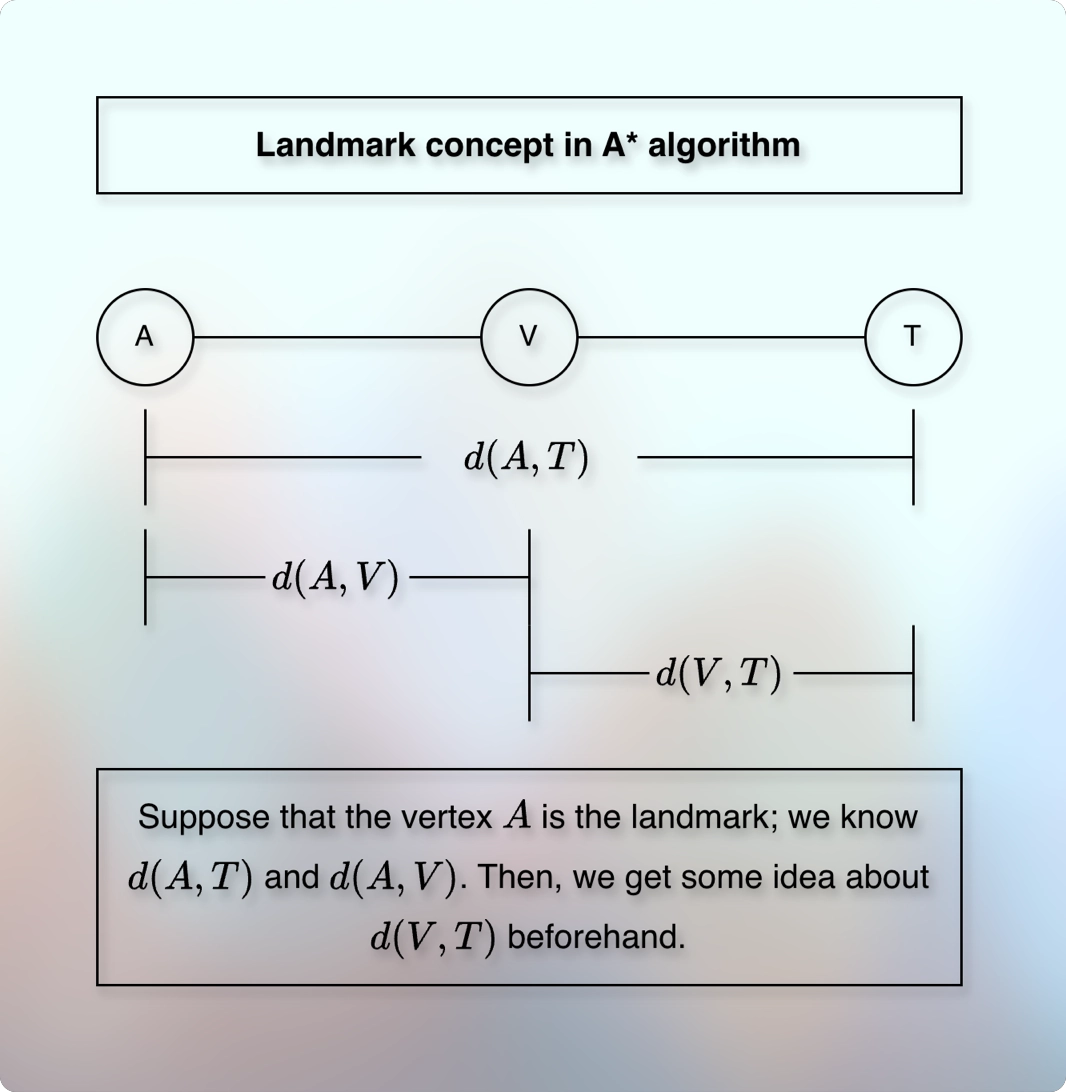
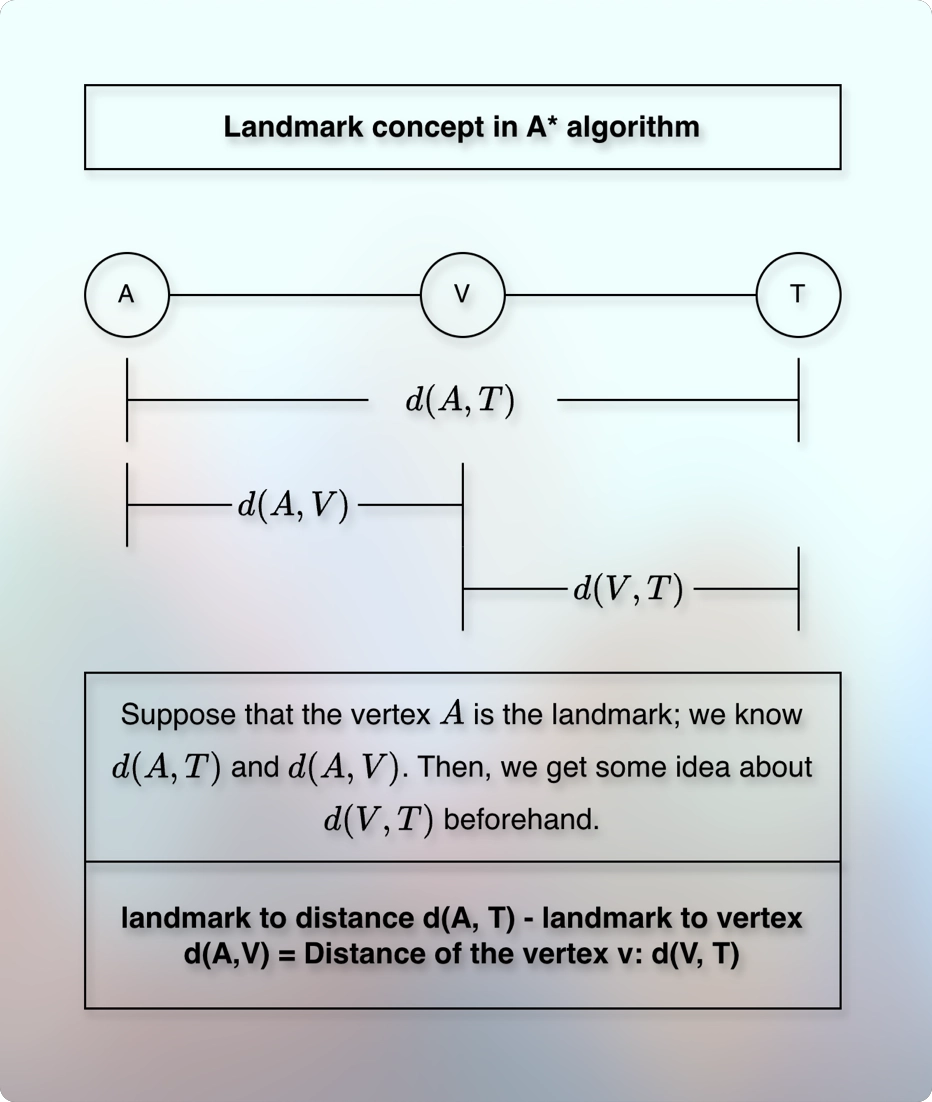
rev-doc(WIP): Continue expanding the concept of "Landmarks" in the | 020aStarAlgorithm.md
Took 30 minutes

diff --git a/docs/03graph/courses/uc/module06advancedShortestPathProject/010lectures/020aStarAlgorithm.md b/docs/03graph/courses/uc/module06advancedShortestPathProject/010lectures/020aStarAlgorithm.md
@@ -883,6 +883,11 @@ $$
 d(S, T) - d(S, a) &le; d(a, T)
 $$
 
+* This is an interesting insight.
+* It says:
+
+> Landmark distance d(S, T) - distance from the vertex `a` to landmark = Distance of the vertex, `a`. 
+
 $$
 d(a, T) &ge; d(S, T) - d(S, a)
 $$
@@ -1081,7 +1086,52 @@ $$
 
 ---
 
-* Reversed Landmarks 
+* Landmark position 
+
+![120landmarks03.webp](../../../../../../assets/images/03graph/courses/uc/module06advancedShortestPathProject/part02AstartAlgorithm/120landmarks03.webp)
+
+* The landmark position is flexible.
+* Any landmark works.
+* It doesn't have to be strictly before or after the vertex, before or after the target.
+* The important thing is:
+* When we have the distance from the landmark to the target, and the distance from the vertex to the landmark, then we can get some idea about the distance from the vertex to the target.
+* For example, for the right image:
+
+$$
+d(V, T) = d(V, A) - d(T, A)
+$$
+
+* And according to the triangle inequality:
+
+$$
+d(A, T) &le; d(A, V) + d(V, T)
+$$
+
+* Can we prove that the distance d(V, T) we achieve in this way is the lower bound for the vertex, V?
+
+$$
+d(A, T) - d(A, V) &le; d(V, T)
+$$
+
+or
+
+$$
+d(V, T) &ge; d(A, T) - d(A, V)
+$$
+
+* This conveys that even if we don't know the actual distance from the vertex, V to the target, T, we know the lower bound: $d(A, T) - d(A, V)$.
+* The actual distance from the vertex, V to the target, T must be greater than: 
+* $d(A, T) - d(A, V)$.
+
+---
+
+![120landmarks03.webp](../../../../../../assets/images/03graph/courses/uc/module06advancedShortestPathProject/part02AstartAlgorithm/120landmarks03.webp)
+
+* Now, according to the triangle inequality, we also know that:
+
+$$
+d(V, A) &le; d(V, T) + d(T, A)
+$$
 
 ---
 
